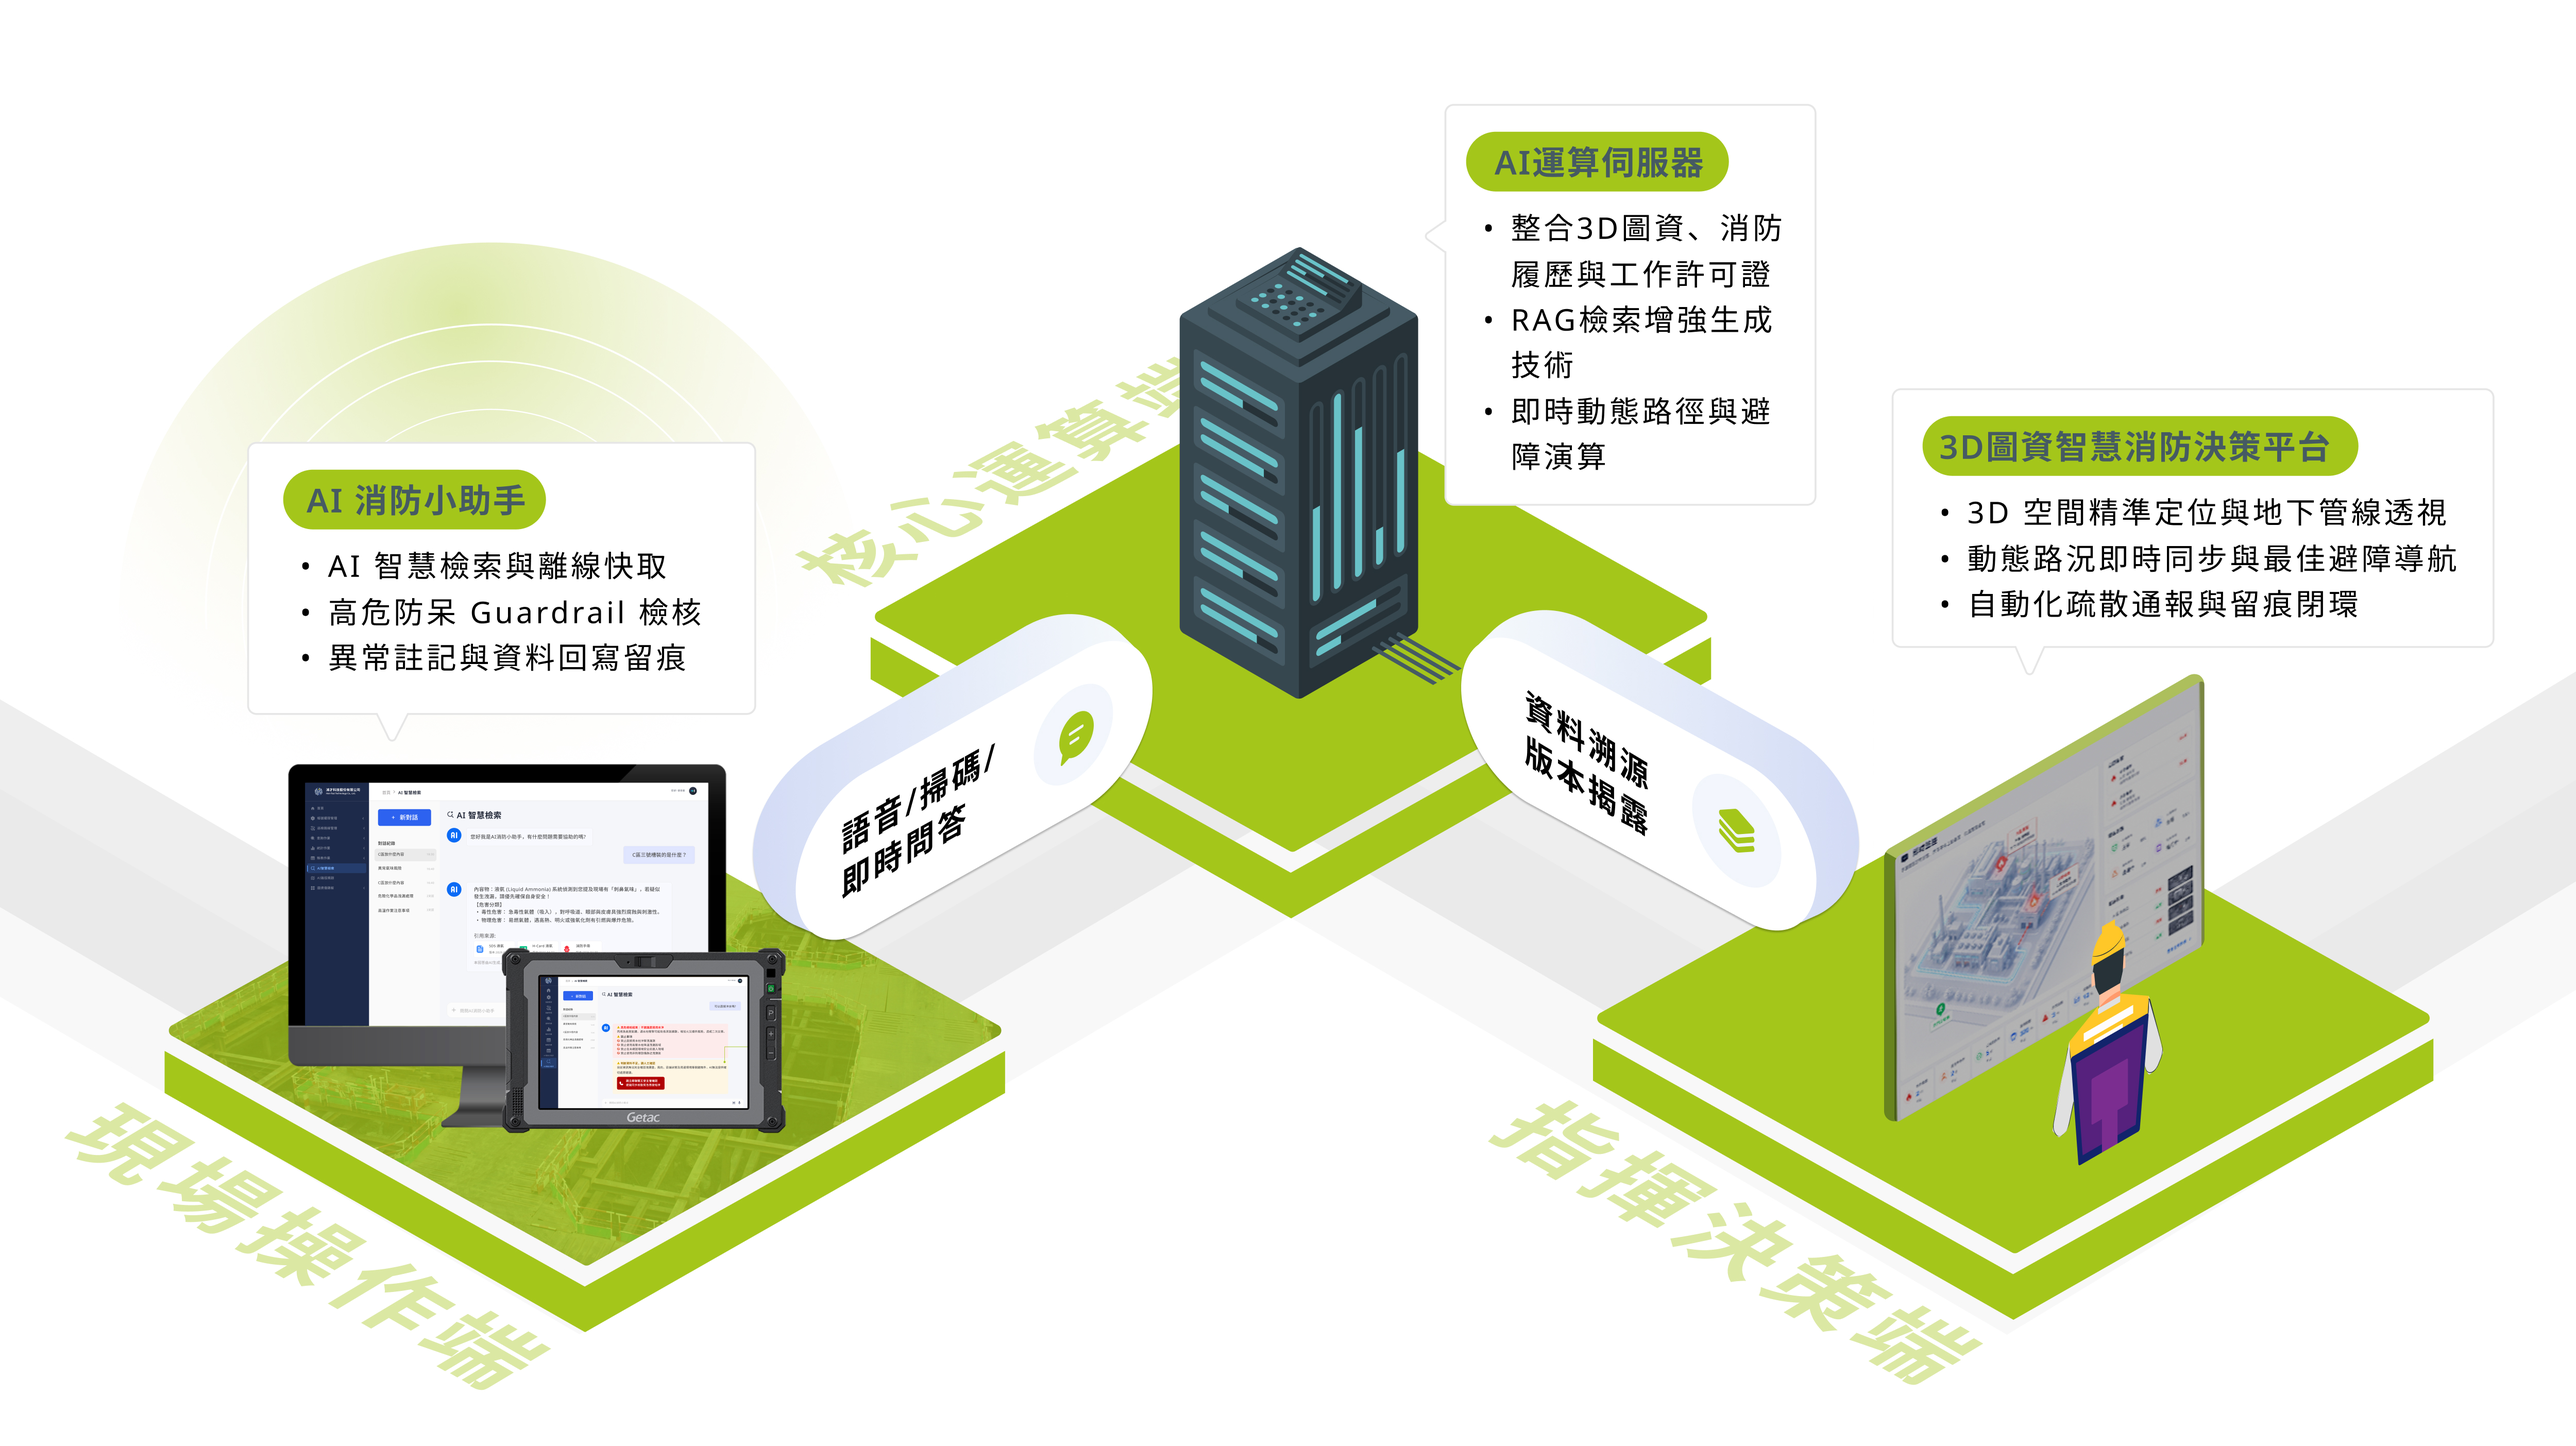
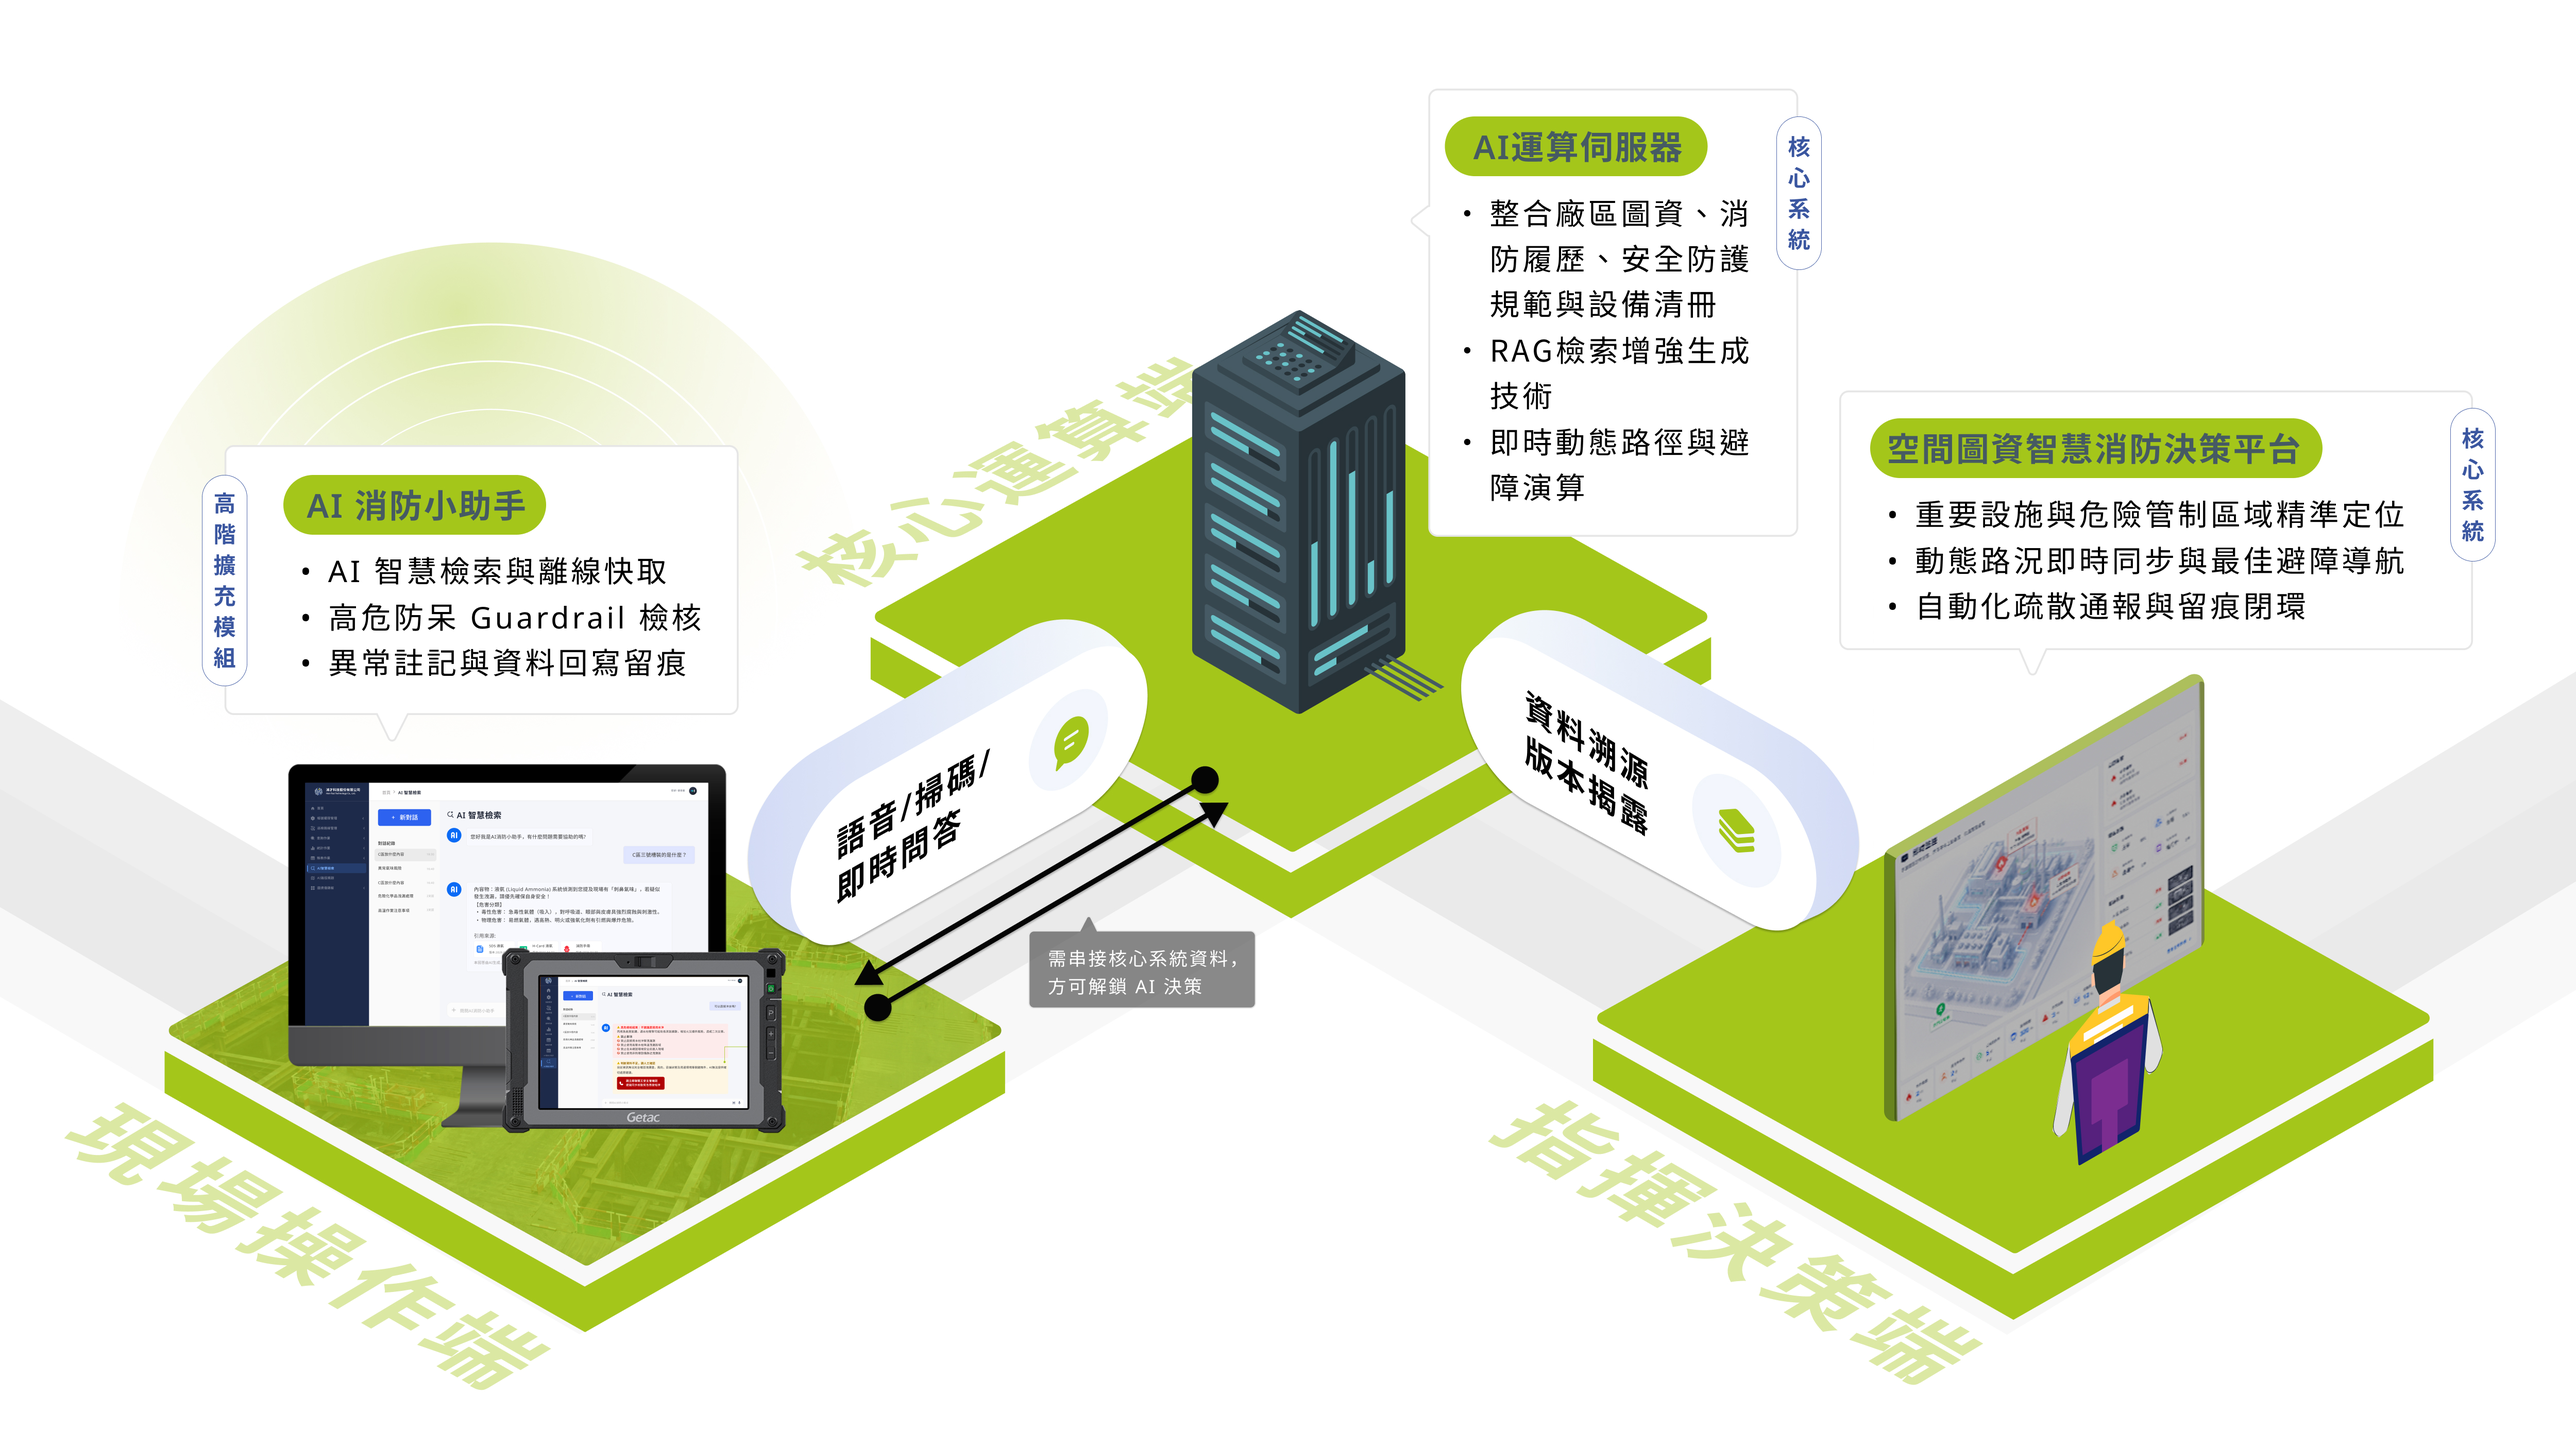
0819

diff --git a/service_info_aifire.html b/service_info_aifire.html
@@ -5,9 +5,9 @@
   <meta charset="utf-8">
   <meta http-equiv="X-UA-Compatible" content="IE=edge">
   <meta name="viewport" content="width=device-width, initial-scale=1, user-scalable=no">
-  <title> AI 智慧消防系統 | 鴻才科技股份有限公司</title>
+  <title> AI消防巡檢與圖資管理 | 鴻才科技股份有限公司</title>
   <!-- FB用，也會影響SEO分數 -->
-  <meta property="og:title" content=" AI 智慧消防系統 | 鴻才科技股份有限公司" />
+  <meta property="og:title" content=" AI消防巡檢與圖資管理 | 鴻才科技股份有限公司" />
   <meta name="description" content="鴻才AI消防巡檢與圖資管理系統，專為工安量身打造的智慧化現場決策入口。整合AI消防小助手、3D圖資與邊緣運算，提供AI知識檢索、路徑規劃、高危檢核與留痕稽核能力。支援地端私有部署，協助石化、半導體與製造業全面提升救災與疏散效率。">
   <meta name="keywords" content="AI消防巡檢, 圖資管理系統, 智慧消防, 安全物聯網, AI消防小助手, 現場決策入口, AI路徑規劃, 3D廠區圖資, 消防設備管理, 地端AI部署, 智慧工廠, 高危物質檢核, 鴻才">
   <meta property="og:description" content="鴻才AI消防巡檢與圖資管理系統，專為工安量身打造的智慧化現場決策入口。整合AI消防小助手、3D圖資與邊緣運算，提供AI知識檢索、路徑規劃、高危檢核與留痕稽核能力。支援地端私有部署，協助石化、半導體與製造業全面提升救災與疏散效率。" />
@@ -218,12 +218,12 @@
         <div class="container-fluid">
           <div class="row">
             <div class="col-12 text-center">
-              <h1 class="breadcrumb_6__title">AI 智慧消防系統</h1>
+              <h1 class="breadcrumb_6__title">AI消防巡檢與圖資管理</h1>
               <nav class="breadcrumb_6__inner">
                 <ul class="breadcrumb_6__list">
                   <li><a href="index.html">首頁<i class="fas fa-angle-right"></i></a></li>
                   <li><a href="iot_list.html">安全物聯網<i class="fas fa-angle-right"></i></a></li>
-                  <li class="breadcrumb_6__current">AI 智慧消防系統</li>
+                  <li class="breadcrumb_6__current">AI消防巡檢與圖資管理</li>
                 </ul>
               </nav>
             </div>
